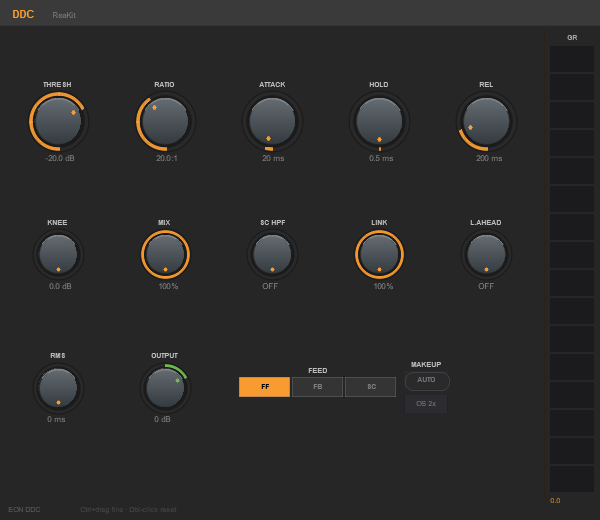
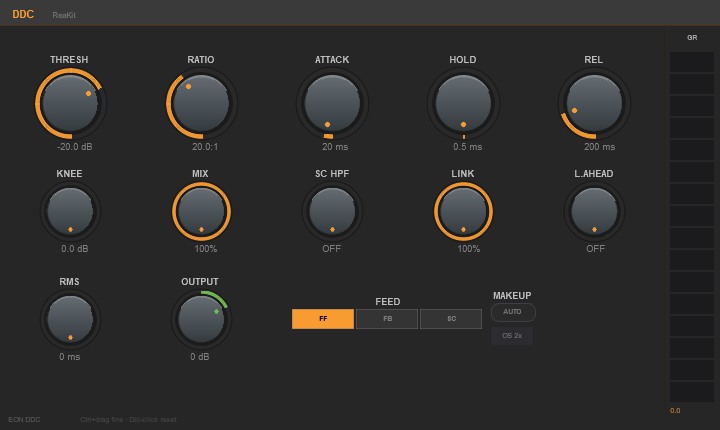
Pictures at the sizes the windows are used at (3-Band 640x300, DDC 720x430, GainKit 489x450), the FL set re-shot with the theme published per plugin, the cover recomposed, GainKit on four themes at the new size; DDC's line in the README

diff --git a/README.md b/README.md
@@ -62,8 +62,8 @@ The display shows the band it is listening to.
 - **THEME panel** — GainKit, Saturation, 3-Band EQ and De-Esser have a THEME toggle in the header:
   a colour theme, a knob style (21 of them), the name bar over the mixer-strip embed, and NATIVE,
   which opts an instance out of theming. GainKit's panel also picks the VU's face and has LOCK,
-  which freezes that instance's look while the rest follows the theme. DDC keeps its own fixed
-  face.
+  which freezes that instance's look while the rest follows the theme. DDC has no panel of its
+  own; its colours and knobs follow the suite's theme.
 
   ![GainKit on four themes](screenshots/themes.png)
 
